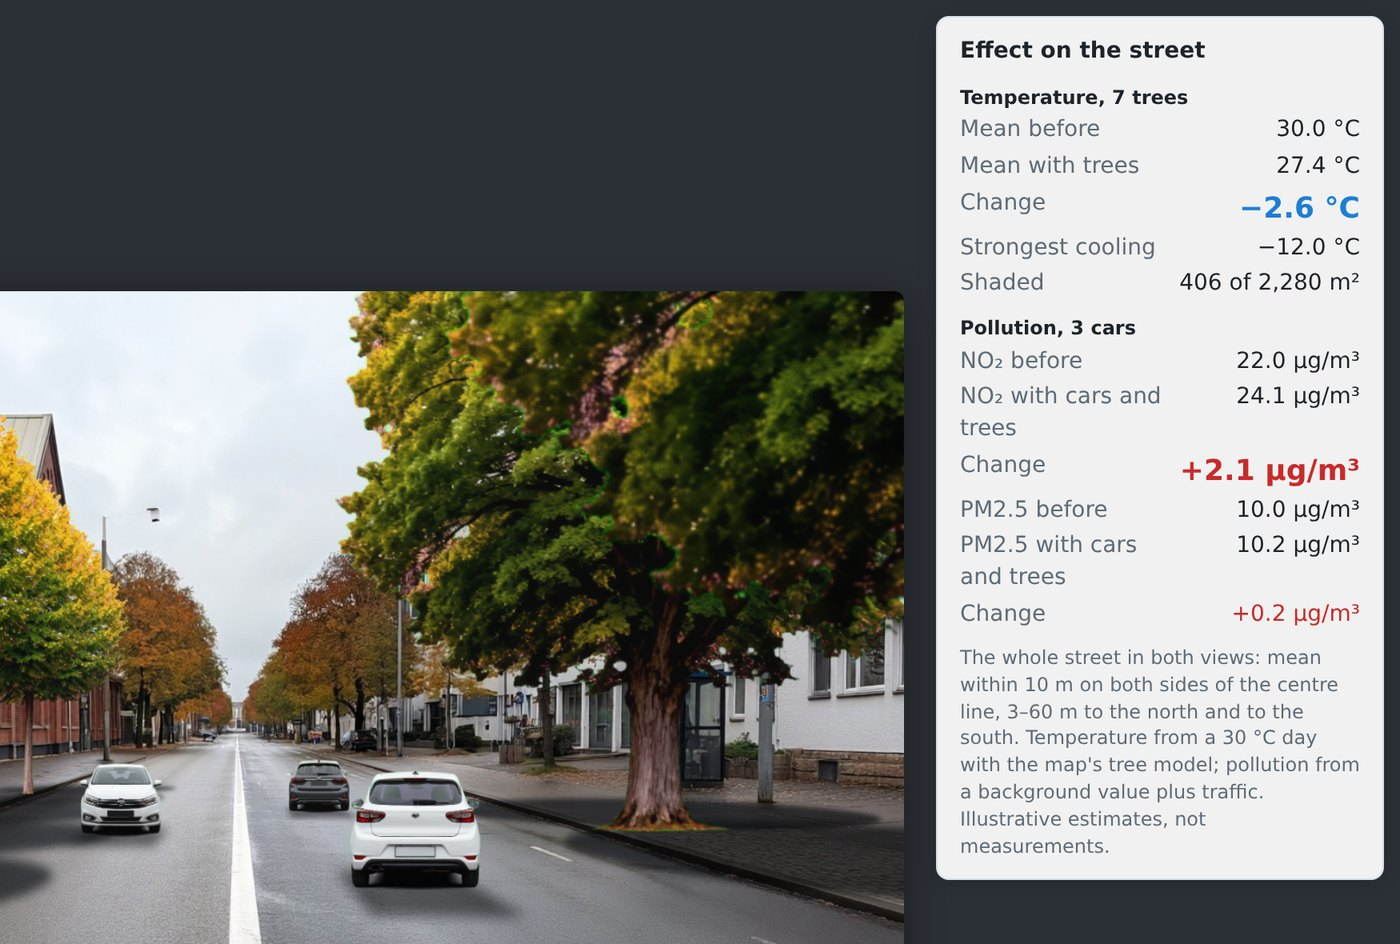
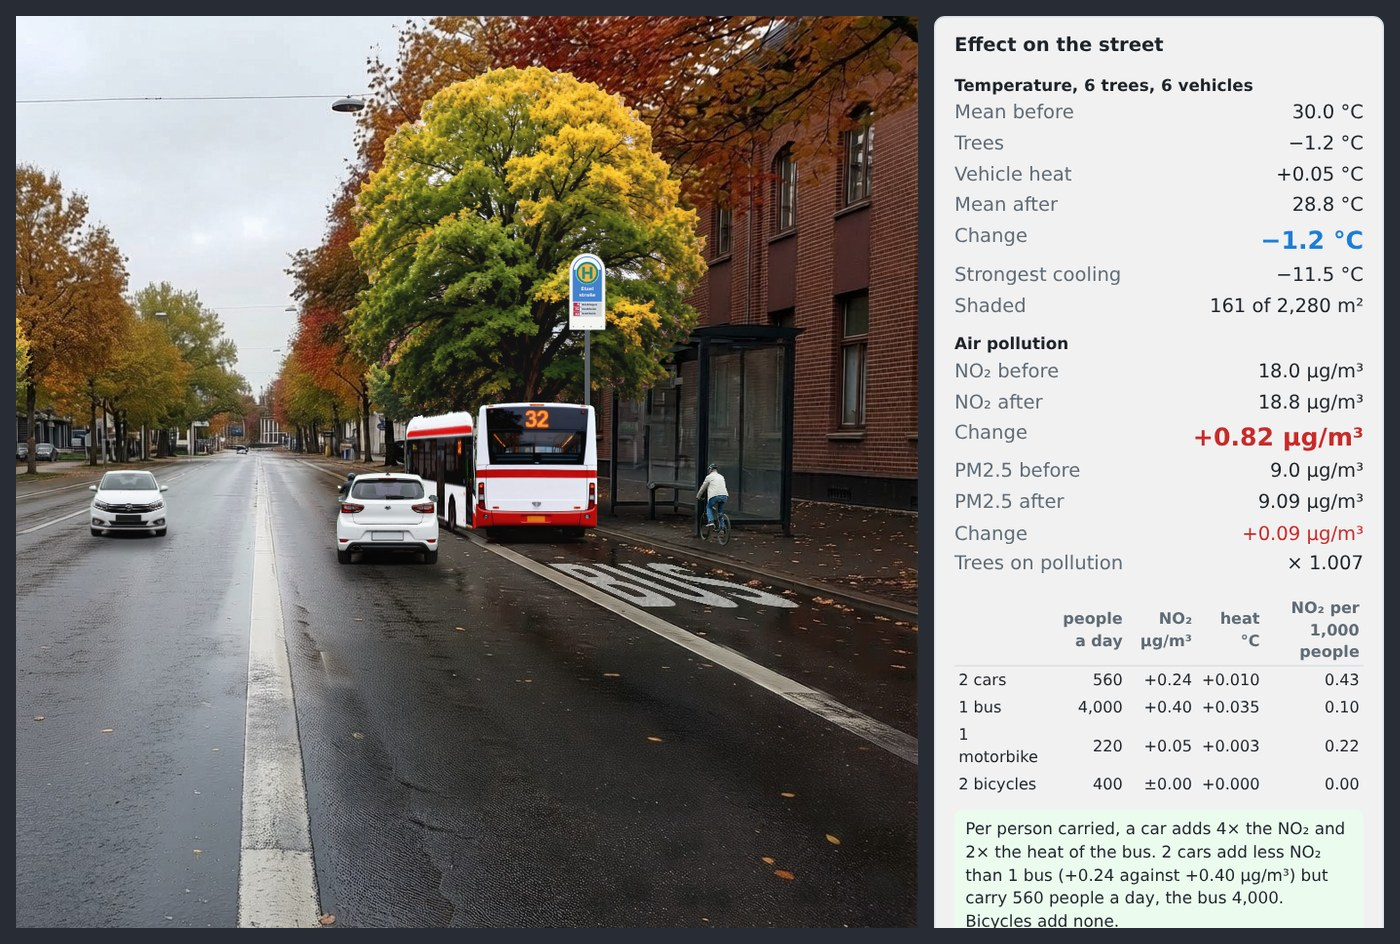
Street view: angled cars and motorbikes, stop sign by distance; brochure update
- Three-quarter cut-outs of the cars (each colour) and the motorbike, chosen by the angle the
  camera sees them at, so they point along the street beside the camera, as the cyclists do
- The stop sign is drawn in distance order with what is placed, so a tree behind it no longer
  covers it
- Brochure: new street screenshots (south view with the stop, bus lane, bus, cars, motorbike,
  bicycles), numbers from the current traffic model, UBA traffic station data

diff --git a/docs/brochure/brochure.html b/docs/brochure/brochure.html
@@ -76,7 +76,7 @@
   <div class="text">
     <div class="kicker">NeoN-Green · Green City Hackathon Heilbronn 2026</div>
     <h1>UrbanFlow <span>Twin</span></h1>
-    <div class="sub">What if we planted trees on our street? Find the hot spots, plant trees on the map, see the street – and how much cooler it gets.</div>
+    <div class="sub">What if we planted trees on our street – and took the bus? Find the hot spots, plant trees on the map, see the street – and how much cooler and cleaner it gets.</div>
     <div class="tags"><span class="tag">Real Heilbronn data</span><span class="tag">Interactive map</span><span class="tag">Street view</span><span class="tag">Open source</span></div>
   </div>
 </header>
@@ -92,21 +92,21 @@
     <div class="card step"><div class="img" style="background-image:url(img/map-street.jpg); background-position: 45% 50%"></div><div class="body">
       <h3><span class="num">2</span>Plant trees on the map</h3>
       <p>Draw a stretch of street and plant trees. Shadows follow the sun; the panel shows the cooling, e.g. −3.7 °C on Weipertstraße.</p></div></div>
-    <div class="card step"><div class="img" style="background-image:url(img/street-tool.jpg); background-position: 70% 20%"></div><div class="body">
+    <div class="card step"><div class="img" style="background-image:url(img/street-tool.jpg); background-position: 100% 18%"></div><div class="body">
       <h3><span class="num">3</span>See it in the street</h3>
-      <p>Look along Weipertstraße from the road centre, place trees and cars, and read the effect.</p></div></div>
+      <p>Look along Weipertstraße from the road centre, place trees, cars, the bus, motorbikes and bicycles, and read the effect.</p></div></div>
   </div>
 
   <div class="street">
-    <div class="shot" style="background-image:url(img/street-before.jpg)"><span class="label">Today</span><span class="note">Weipertstraße, looking north past the Open Space</span></div>
-    <div class="shot" style="background-image:url(img/street-after.jpg)"><span class="label after">With 7 trees and 3 cars</span><span class="note">Same view: trees and cars placed in the app</span></div>
+    <div class="shot" style="background-image:url(img/street-before.jpg)"><span class="label">Today</span><span class="note">Weipertstraße, looking south to the Etzelstraße stop</span></div>
+    <div class="shot" style="background-image:url(img/street-after.jpg)"><span class="label after">With 6 trees and 6 vehicles</span><span class="note">Same view: trees and vehicles placed in the app</span></div>
     <div class="card effect">
       <h3>Effect on the street</h3>
-      <div><div class="big cool">−2.6 °C</div><div class="k">mean felt temperature, 15:00 in July</div></div>
-      <div><div class="big cool" style="font-size:22px">−12.0 °C</div><div class="k">in the shade of a crown · 406 m² shaded</div></div>
+      <div><div class="big cool">−1.2 °C</div><div class="k">mean, 15:00 on a July day</div></div>
+      <div><div class="big cool" style="font-size:22px">−11.5 °C</div><div class="k">under a crown · 161 m² shaded</div></div>
       <hr>
-      <div><div class="big warm" style="font-size:22px">+2.1 µg/m³ NO₂</div><div class="k">from 3 cars, background 22 µg/m³</div></div>
-      <div class="k" style="margin-top:auto">Mean within 10 m of the centre line, 3–60 m both ways. Illustrative estimates from a teaching model.</div>
+      <div><div class="big warm" style="font-size:22px">+0.82 µg/m³ NO₂</div><div class="k">from 2 cars, the bus and a motorbike</div></div>
+      <div class="k"><b>Per person carried, a car adds 4× the NO₂ of the bus</b>; bicycles none. Background 18 µg/m³; within 10 m of the centre line; estimates.</div>
     </div>
   </div>
 
@@ -114,18 +114,18 @@
     <div class="card box">
       <h2>Real data from Heilbronn</h2>
       <div class="data">
-        <b>384</b><span>senseBox:bike rides of the Heilbronn campaign (openSenseMap)</span>
-        <b>43,031</b><span>street trees in the city's 2026 inventory (opendata.heilbronn.de)</span>
-        <b>5</b><span>heat hotspots on named streets, from ride-relative temperatures</span>
-        <b>1 hot day</b><span>of citizen temperature sensors (sensor.community, 2 Jul 2025) as the city-wide heat map</span>
+        <b>384</b><span>senseBox:bike rides, Heilbronn campaign (openSenseMap)</span>
+        <b>43,031</b><span>street trees, 2026 inventory (opendata.heilbronn.de)</span>
+        <b>5</b><span>heat hotspots on named streets, from the rides</span>
+        <b>1 hot day</b><span>of citizen sensors as the heat map (sensor.community)</span>
+        <b>27 µg/m³</b><span>NO₂ at the traffic station 2025, 18 background (UBA)</span>
       </div>
     </div>
     <div class="card box">
       <h2>How it works – honestly</h2>
       <ul>
-        <li><b>Shade</b> from each crown, projected with the real sun position for date and time.</li>
-        <li><b>Evaporative cooling</b> around trees, saturating for many trees.</li>
-        <li><b>Pollution</b>: background plus a plume per car; crowns remove a little.</li>
+        <li><b>Shade</b> from each crown with the real sun position; <b>evaporative cooling</b> around trees.</li>
+        <li><b>Traffic</b>: each vehicle = 200 trips a day, scaled from the traffic station by its emission factor.</li>
         <li>Street views and cut-outs are <b>AI images</b> from our photos (open model, Apache 2.0).</li>
         <li>A transparent teaching model – every number is editable – <b>not a simulation</b>.</li>
       </ul>
@@ -175,7 +175,7 @@
         go – that needs computational fluid dynamics.</p>
       <ul>
         <li><b>CFD with OpenFOAM / NeoFOAM</b> on GPU systems: resolve airflow around buildings, trees as porous drag, and heat and pollutant transport.</li>
-        <li><b>Same scenarios:</b> export the trees and cars placed in the app as CFD cases for the street.</li>
+        <li><b>Same scenarios:</b> export the trees and vehicles placed in the app as CFD cases for the street.</li>
         <li><b>Validate</b> against senseBox:bike and station measurements, then replace the estimates with physics-based predictions.</li>
       </ul>
     </div>
@@ -184,7 +184,7 @@
 
 <footer>
   <div class="claim">Real data. Real streets. <span>A cooler Heilbronn.</span></div>
-  <div class="right">Open source · github.com/lupeterm/NeoN-Green<br>Data: openSenseMap (PDDL), sensor.community (ODbL), Stadt Heilbronn, © OpenStreetMap contributors</div>
+  <div class="right">Open source · github.com/lupeterm/NeoN-Green<br>Data: openSenseMap (PDDL), sensor.community (ODbL), Stadt Heilbronn, Umweltbundesamt, © OpenStreetMap contributors</div>
 </footer>
 </body>
 </html>

diff --git a/street.js b/street.js
@@ -251,7 +251,6 @@ function render(opts = {}) {
 
   ctx.globalAlpha = 1;
   ctx.drawImage(img, 0, 0);
-  busStop();
   ctx.save();
   ctx.clip(S.ground);
   for (const o of objs) groundMarks(o, sun);
@@ -259,10 +258,15 @@ function render(opts = {}) {
 
   S.rects = [];
   S.lights = [];
+  // the stop sign takes its place among the objects by distance, so a tree behind it does not cover it
+  const pole = S.view.stop && cam.toGround(...S.view.stop.pole), poleDepth = pole ? Math.hypot(pole.x, pole.z) : Infinity;
+  let stopDrawn = false;
   for (const o of objs.sort((a, b) => b.depth - a.depth)) {
+    if (!stopDrawn && o.depth < poleDepth) { busStop(); stopDrawn = true; }
     const r = drawObject(o);
     if (r && !o.ghost) S.rects.push({...r, depth: o.depth, item: o.item});
   }
+  if (!stopDrawn) busStop();
   for (const fg of S.foreground) { ctx.save(); ctx.clip(fg); ctx.drawImage(img, 0, 0); ctx.restore(); }
   daylight(sun, W, H);
 
@@ -558,9 +562,9 @@ function vehicleLights(o, p) {
   const front = '255, 244, 214', tail = '255, 40, 30', r = Math.max(2, (o.kind === 'bicycle' ? 0.08 : 0.14) * s);
   if (side === 'front') for (const [d, h] of v.front) S.lights.push({u: p.u + d * s, v: p.v - h * s, colour: front, r});
   else if (side === 'rear') for (const [d, h] of v.rear) S.lights.push({u: p.u + d * s, v: p.v - h * s, colour: tail, r: r * 0.8});
-  else if (side.endsWith('-quarter')) {  // the lamp at the near end, a little towards where it points
-    const dir = o.pose.flip ? -1 : 1, rear = side === 'rear-quarter', [, h] = (rear ? v.rear : v.front)[0];
-    S.lights.push({u: p.u + (rear ? -1 : 1) * dir * 0.3 * half * s, v: p.v - h * s, colour: rear ? tail : front, r: rear ? r * 0.8 : r});
+  else if (side.endsWith('-quarter')) {  // the lamps at the near end, a little towards where it points, closer together
+    const dir = o.pose.flip ? -1 : 1, rear = side === 'rear-quarter', shift = (rear ? -1 : 1) * dir * 0.3 * half;
+    for (const [d, h] of rear ? v.rear : v.front) S.lights.push({u: p.u + (shift + 0.6 * d) * s, v: p.v - h * s, colour: rear ? tail : front, r: rear ? r * 0.8 : r});
   } else {
     const dir = o.pose.flip ? -1 : 1;
     S.lights.push({u: p.u + dir * 0.96 * half * s, v: p.v - v.front[0][1] * s, colour: front, r});
@@ -601,8 +605,9 @@ function destination(o, [bx0, by0, bx1, by1], k, x0, y0, u, mirrored, ctx = S.ct
 }
 
 // Vehicles drive on the right: east of the centre line towards the street axis bearing, west of it the other way.
-// Seen from the camera that is a rear, front or side view; bicycles on the footpath, seen at an angle,
-// also get three-quarter views (rear-quarter, front-quarter) where there are cut-outs for them.
+// Seen from the camera that is a rear, front or side view; seen at an angle (off to the side of the
+// camera, on the footpath or near it) a three-quarter view (rear-quarter, front-quarter) where there
+// are cut-outs for them: cars, motorbikes and bicycles. The bus is drawn in perspective (drawBox).
 function vehiclePose(o) {
   const {cam} = S, A = S.cfg.street_axis_bearing_deg * DEG;
   const {east, north} = cam.toEN(o), lateral = east * Math.cos(A) - north * Math.sin(A);
@@ -764,8 +769,8 @@ const signed = (v, digits) => (v > 0 ? '+' : v < 0 ? '−' : '±') + Math.abs(v)
 
 // ------------------------------------------------------------------ sprites
 // Realistic cut-outs from scripts/make_sprites.py: trees per size, vehicles from behind, the front and
-// the side, bicycles also three-quarter (facing right, or left if marked "faces"). The object's seed
-// picks one of the variants.
+// the side, and (except the bus) three-quarter (facing right, or left if marked "faces"). The object's
+// seed picks one of the variants.
 
 function sprite(o) {
   const ids = Object.keys(S.sprites).filter(id => {

diff --git a/scripts/make_sprites.py b/scripts/make_sprites.py
@@ -9,7 +9,7 @@ object alone on a plain magenta canvas; the magenta is keyed out to transparency
 records, per cut-out, the ground point (bottom centre, in pixels) and pixels per metre, so
 street.js can draw it at the right size for its distance. Sizes are the tree presets of
 config/model.json, typical car dimensions and the heights in VEHICLES (bus, motorbike, bicycle).
-Bicycles also get three-quarter views, as they are seen at an angle on the footpath.
+Bicycles, cars and motorbikes also get three-quarter views, for where they are seen at an angle.
 """
 import argparse
 import json
@@ -41,8 +41,13 @@ SPECIES = ["a lime tree (linden)", "a plane tree"]
 CAR_COLOURS = ["dark grey", "silver", "white"]
 CAR_VIEW = {"rear": "seen straight from behind, at eye level", "front": "seen straight from the front, at eye level",
             "side": "seen exactly from the left side, at eye level, the front pointing to the right"}
-# three-quarter views (bicycles, seen from the footpath at an angle): the viewer stands diagonally
+# three-quarter views (seen at an angle, off to the side of the camera): the viewer stands diagonally
 # behind or in front of it on its right, so it points to the right; street.js mirrors as for side views
+CAR_QUARTER_VIEW = {"rear-quarter": "seen diagonally from behind and from its right side (a three-quarter rear view, about 45 degrees), "
+                                    "at eye level, driving away from the viewer, its front pointing away and to the right",
+                    "front-quarter": "seen diagonally from the front and from its right side (a three-quarter front view, about 45 degrees), "
+                                     "at eye level, driving towards the viewer, its front pointing towards the viewer and to the right"}
+CAR_HEIGHT_M = 1.5   # quarter views are scaled by the height, their width on the picture not being the car's
 QUARTER_VIEW = {"rear-quarter": "seen diagonally from behind and from its right side (a three-quarter rear view, about 45 degrees), "
                                 "at eye level, riding away from the viewer, the front wheel pointing away and to the right",
                 "front-quarter": "seen diagonally from the front and from its right side (a three-quarter front view, about 45 degrees), "
@@ -57,7 +62,7 @@ VEHICLES = {
     "bus": {"height_m": 3.1, "sizes": {"side": (1536, 640), "front": (768, 1024), "rear": (768, 1024)},
             "what": "a modern 12-metre low-floor city bus, white with a red stripe, its orange LED destination display showing "
                     "the route number 32 (no other text, no logos)"},
-    "motorbike": {"height_m": 1.45, "sizes": {"side": (1024, 768), "front": (640, 1024), "rear": (640, 1024)},
+    "motorbike": {"height_m": 1.45, "sizes": {"side": (1024, 768), "front": (640, 1024), "rear": (640, 1024)}, "quarters": (768, 1024),
                   "what": "a person riding a black mid-size motorcycle, wearing a dark helmet, dark jacket and jeans"},
     "bicycle": {"height_m": 1.75, "sizes": {"side": (1024, 768), "front": (640, 1024), "rear": (640, 1024)},
                 "quarters": (768, 1024), "what": "a person riding a city bicycle, wearing a bicycle helmet, a light jacket and jeans"},
@@ -70,6 +75,10 @@ def jobs():
             yield {"id": f"tree-{preset}-{i}", "kind": "tree", "preset": preset, "size": (768, 1024),
                    "prompt": f"A photo of {desc}, {species}, in green summer leaf with the first yellow leaves. {LIGHT}"}
     for side, view in CAR_VIEW.items():
+        for i, colour in enumerate(CAR_COLOURS, 1):
+            yield {"id": f"car-{side}-{i}", "kind": "car", "side": side, "size": (1024, 768),
+                   "prompt": f"A photo of a {colour} modern compact family car (hatchback), {view}. {LIGHT}"}
+    for side, view in CAR_QUARTER_VIEW.items():
         for i, colour in enumerate(CAR_COLOURS, 1):
             yield {"id": f"car-{side}-{i}", "kind": "car", "side": side, "size": (1024, 768),
                    "prompt": f"A photo of a {colour} modern compact family car (hatchback), {view}. {LIGHT}"}
@@ -113,6 +122,8 @@ def ground(sprite, job, model):
         px_per_m = (bottom + 1 - rows[0]) / model["presets"][job["preset"]]["height_m"]
     elif job["kind"] in VEHICLES:
         px_per_m = (bottom + 1 - rows[0]) / VEHICLES[job["kind"]]["height_m"]
+    elif job["side"].endswith("-quarter"):
+        px_per_m = (bottom + 1 - rows[0]) / CAR_HEIGHT_M
     else:
         px_per_m = w / (4.4 if job["side"] == "side" else 1.8)
     return [round(gx, 1), int(bottom)], round(float(px_per_m), 2)

diff --git a/README.md b/README.md
@@ -411,8 +411,8 @@ by at most `placement.crown_overlap` of their radii (as on the map), vehicles ke
 vehicle sharing their road or footpath (1-1.5 m in front and behind, about 0.5 m beside), and
 bicycles keep 1 m from trunks. Objects get the size and position the perspective gives at that spot
 and nearer objects cover farther ones; vehicles keep to the right, so they are seen from behind,
-from the front or from the side; cyclists on the footpath, seen at an angle, from diagonally behind or
-in front, riding along it. The bus, being long, is drawn in perspective as its near end and its long
+from the front or from the side; cars, motorbikes and cyclists seen at an angle (beside the camera or
+on the footpath) from diagonally behind or in front, so they point along the street. The bus, being long, is drawn in perspective as its near end and its long
 side laid along its lane, so it points along the lane wherever it stands (also in the bus lane by
 the stop). The bus runs as SWH line 32, which uses Weipertstraße (OpenStreetMap
 route relations): its destination display reads "32 Frankenbach Maihalde" northbound and "32
